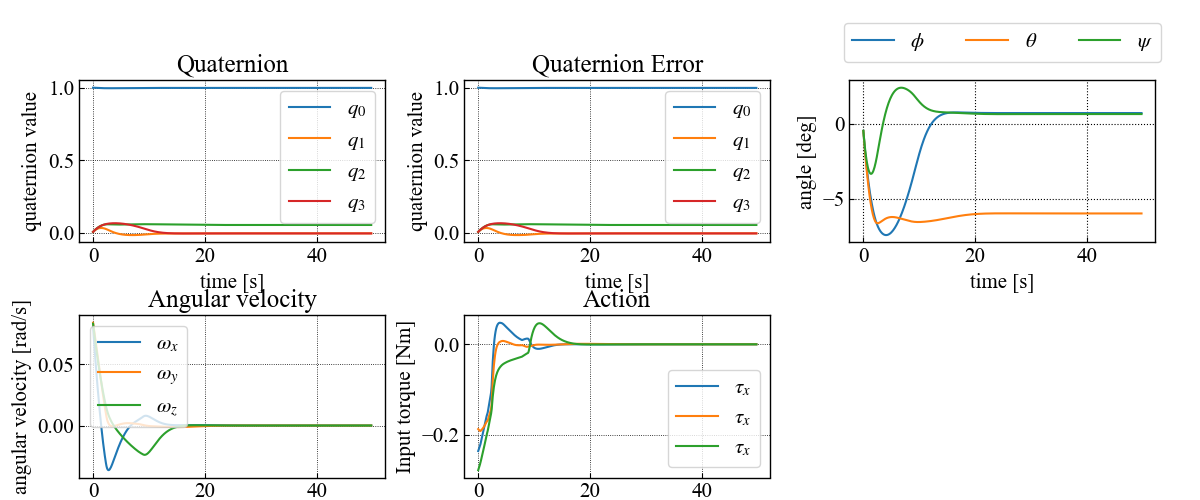
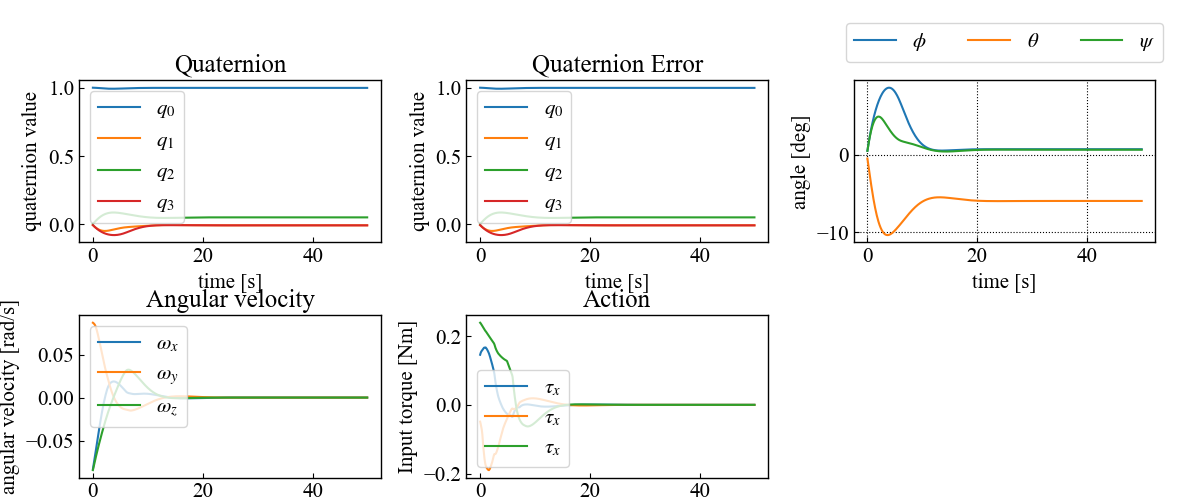
UPDATE: change reward

diff --git a/train.py b/train.py
@@ -21,7 +21,7 @@ def train():
         "batch_size": 128,
         "critic_lr": 1e-3,
         "actor_lr": 1e-4,
-        "max_episodes": 10000,
+        "max_episodes": 4000,
         "max_steps": 300,
         "gamma": 0.99,
         "tau" : 1e-3,
@@ -87,12 +87,13 @@ def evaluate():
     q = np.empty((0,4))
     w = np.empty((0,3))
     actions = np.empty((0,3))
+    r_hist = np.empty((0,3))    
 
     dt = 0.1
     simutime = 50
-    simulation_iterations = int(simutime/dt) -1 # dt is 0.01
+    max_steps = int(simutime/dt) # dt is 0.1
 
-    for i in range(1, simulation_iterations):
+    for i in range(max_steps):
         action = agent.get_action(state)
         # action = np.squeeze(action)
         next_error_state, reward, done, next_state, _ = env.step(action)
@@ -102,6 +103,7 @@ def evaluate():
         w=np.append(w,next_error_state[8:11].reshape(1,-1),axis=0)
         r += reward
         actions = np.append(actions, action.reshape(1,-1),axis=0)
+        r_hist = np.append(r_hist, np.array([env.r1,env.r2,env.r3]).reshape(1,-1),axis=0)
 
         state = next_error_state
 
@@ -134,10 +136,10 @@ def evaluate():
     plt.figure(figsize=(12,5),dpi=100)
     # plt.figure(figsize=(5.0,3.5),dpi=100)
     plt.subplot(231)
-    plt.plot(np.arange(simulation_iterations-1)*dt, q[:,0],label =r"$q_{0}$")
-    plt.plot(np.arange(simulation_iterations-1)*dt, q[:,1],label =r"$q_{1}$")
-    plt.plot(np.arange(simulation_iterations-1)*dt, q[:,2],label =r"$q_{2}$")
-    plt.plot(np.arange(simulation_iterations-1)*dt, q[:,3],label =r"$q_{3}$")
+    plt.plot(np.arange(max_steps)*dt, q[:,0],label =r"$q_{0}$")
+    plt.plot(np.arange(max_steps)*dt, q[:,1],label =r"$q_{1}$")
+    plt.plot(np.arange(max_steps)*dt, q[:,2],label =r"$q_{2}$")
+    plt.plot(np.arange(max_steps)*dt, q[:,3],label =r"$q_{3}$")
     plt.title('Quaternion')
     plt.ylabel('quaternion value')
     plt.xlabel(r'time [s]')
@@ -147,10 +149,10 @@ def evaluate():
 
     # plt.figure(figsize=(5.0,3.5),dpi=100)
     plt.subplot(232)
-    plt.plot(np.arange(simulation_iterations-1)*dt, qe[:,0],label =r"$q_{0}$")
-    plt.plot(np.arange(simulation_iterations-1)*dt, qe[:,1],label =r"$q_{1}$")
-    plt.plot(np.arange(simulation_iterations-1)*dt, qe[:,2],label =r"$q_{2}$")
-    plt.plot(np.arange(simulation_iterations-1)*dt, qe[:,3],label =r"$q_{3}$")
+    plt.plot(np.arange(max_steps)*dt, qe[:,0],label =r"$q_{0}$")
+    plt.plot(np.arange(max_steps)*dt, qe[:,1],label =r"$q_{1}$")
+    plt.plot(np.arange(max_steps)*dt, qe[:,2],label =r"$q_{2}$")
+    plt.plot(np.arange(max_steps)*dt, qe[:,3],label =r"$q_{3}$")
     plt.title('Quaternion Error')
     plt.ylabel('quaternion value')
     plt.xlabel(r'time [s]')
@@ -158,13 +160,13 @@ def evaluate():
     plt.grid(color='k', linestyle='dotted', linewidth=0.6)
     # plt.savefig(curr_dir + "/results/plot_error_quaternion.png")
 
-    angle = np.array([np.rad2deg(env.dcm2euler(env.quaternion2dcm(q[i,:]))).tolist() for i in range(simulation_iterations-1)])
+    angle = np.array([np.rad2deg(env.dcm2euler(env.quaternion2dcm(q[i,:]))).tolist() for i in range(max_steps)])
     angle = angle.reshape([-1,3])
     # plt.figure(figsize=(5.0,3.5),dpi=100)
     plt.subplot(233)
-    plt.plot(np.arange(simulation_iterations-1)*dt, angle[:,0],label = r"$\phi$")
-    plt.plot(np.arange(simulation_iterations-1)*dt, angle[:,1],label = r"$\theta$")
-    plt.plot(np.arange(simulation_iterations-1)*dt, angle[:,2],label = r"$\psi$")
+    plt.plot(np.arange(max_steps)*dt, angle[:,0],label = r"$\phi$")
+    plt.plot(np.arange(max_steps)*dt, angle[:,1],label = r"$\theta$")
+    plt.plot(np.arange(max_steps)*dt, angle[:,2],label = r"$\psi$")
     # plt.title('Action')
     plt.ylabel('angle [deg]')
     plt.xlabel(r'time [s]')
@@ -176,9 +178,9 @@ def evaluate():
 
     # plt.figure(figsize=(5.0,3.5),dpi=100)
     plt.subplot(234)
-    plt.plot(np.arange(simulation_iterations-1)*dt, w[:,0],label =r"$\omega_{x}$")
-    plt.plot(np.arange(simulation_iterations-1)*dt, w[:,1],label =r"$\omega_{y}$")
-    plt.plot(np.arange(simulation_iterations-1)*dt, w[:,2],label =r"$\omega_{z}$")
+    plt.plot(np.arange(max_steps)*dt, w[:,0],label =r"$\omega_{x}$")
+    plt.plot(np.arange(max_steps)*dt, w[:,1],label =r"$\omega_{y}$")
+    plt.plot(np.arange(max_steps)*dt, w[:,2],label =r"$\omega_{z}$")
     plt.title('Angular velocity')
     plt.ylabel('angular velocity [rad/s]')
     plt.xlabel(r'time [s]')
@@ -188,9 +190,9 @@ def evaluate():
 
     # plt.figure(figsize=(5.0,3.5),dpi=100)
     plt.subplot(235)
-    plt.plot(np.arange(simulation_iterations-1)*dt, actions[:,0],label = r"$\tau_{x}$")
-    plt.plot(np.arange(simulation_iterations-1)*dt, actions[:,1],label = r"$\tau_{x}$")
-    plt.plot(np.arange(simulation_iterations-1)*dt, actions[:,2],label = r"$\tau_{x}$")
+    plt.plot(np.arange(max_steps)*dt, actions[:,0],label = r"$\tau_{x}$")
+    plt.plot(np.arange(max_steps)*dt, actions[:,1],label = r"$\tau_{x}$")
+    plt.plot(np.arange(max_steps)*dt, actions[:,2],label = r"$\tau_{x}$")
     plt.title('Action')
     plt.ylabel('Input torque [Nm]')
     plt.xlabel(r'time [s]')
@@ -198,6 +200,21 @@ def evaluate():
     plt.grid(color='k', linestyle='dotted', linewidth=0.6)
     # plt.savefig(curr_dir + "/results/plot_torque.png")
     plt.savefig(curr_dir + "/results/total_results.png")
+
+    plt.figure(figsize=(8,4),dpi=100)
+    plt.plot(np.arange(max_steps)*dt, r_hist[:,0],label = r"$q$ pnlty")
+    plt.plot(np.arange(max_steps)*dt, r_hist[:,1],label = r"$\omega$ pnlty")
+    plt.plot(np.arange(max_steps)*dt, r_hist[:,2],label = r"$\tau$ pnlty")
+    plt.plot(np.arange(max_steps)*dt, r_hist[:,0]+r_hist[:,1]+r_hist[:,2],label = r"$toal$",linestyle='dotted')
+    # plt.title('Action')
+    plt.ylabel('reward')
+    plt.xlabel(r'time [s]')
+    plt.tight_layout()
+    plt.legend()
+    # plt.ylim(-20, 20)
+    plt.grid(True, color='k', linestyle='dotted', linewidth=0.8)
+    plt.savefig(curr_dir + "/results/reward_compo.png")
+
     plt.show()
     # -------------------------結果プロット終わり--------------------------------
 def env_test():

diff --git a/environment.py b/environment.py
@@ -166,6 +166,10 @@ class SatelliteContinuousEnv(gym.Env):
         self.d_errorQuate = self.quaternion_differential(self.startOmega, self.errorQuate)
 
         #---thresholds for episode-----
+        self.q_weight = 1*2
+        self.w_weight = 1
+        self.action_weight = 0.25
+
         self.nsteps = 0  # timestep
         self.max_steps = self.simutime/self.dt
 
@@ -178,18 +182,7 @@ class SatelliteContinuousEnv(gym.Env):
         action_bound = np.array([self.max_torque, self.max_torque, self.max_torque],dtype=np.float32)
 
         # 状態量（姿勢角４・姿勢角微分４・角速度３）
-        high = np.array([
-            np.finfo(np.float32).max,
-            np.finfo(np.float32).max,
-            np.finfo(np.float32).max,
-            np.finfo(np.float32).max,
-            np.finfo(np.float32).max,
-            np.finfo(np.float32).max,
-            np.finfo(np.float32).max,
-            np.finfo(np.float32).max,
-            np.finfo(np.float32).max,
-            np.finfo(np.float32).max,
-            np.finfo(np.float32).max,],dtype=np.float32)
+        high = np.ones(11,dtype = np.float32)*np.finfo(np.float32).max
 
         self.action_space = spaces.Box(-action_bound, action_bound)
         self.observation_space = spaces.Box(-high, high)
@@ -264,8 +257,10 @@ class SatelliteContinuousEnv(gym.Env):
         # 報酬関数
         #--------REWARD---------
         if not done:
-            # reward = -0.05*action@action
-            reward = -(2*(1-qe_new[0])**2 + 4*qe_new[1:]@qe_new[1:] + 2*omega_new@omega_new + action@action) 
+            self.r1 = self.q_weight*((1-qe_new[0])**2+ qe_new[1:]@qe_new[1:])
+            self.r2 = self.w_weight*omega_new@omega_new
+            self.r3 = self.action_weight*action@action
+            reward = -(self.r1 + self.r2 + self.r3) 
             # if qe_new[0] >= self.angle_thre:
             #     reward = -0.5*action@action
             #     reward += np.array([1,-1,-1,-1])@np.power(qe,2)
@@ -278,7 +273,10 @@ class SatelliteContinuousEnv(gym.Env):
         elif self.steps_beyond_done is None:
             # epsiode just ended
             self.steps_beyond_done = 0
-            reward = -(2*(1-qe_new[0])**2 + 4*qe_new[1:]@qe_new[1:] + 2*omega_new@omega_new + action@action) 
+            self.r1 = self.q_weight*((1-qe_new[0])**2+ qe_new[1:]@qe_new[1:])
+            self.r2 = self.w_weight*omega_new@omega_new
+            self.r3 = self.action_weight*action@action
+            reward = -(self.r1 + self.r2 + self.r3) 
 
             # if qe_new[0] >= self.angle_thre:
             #     reward = np.array([-1,-1,-1,1])@np.power(qe,2)

diff --git a/utils.py b/utils.py
@@ -16,14 +16,10 @@ def mini_batch_train(env, agent, max_episodes, max_steps, batch_size):
     episode_rewards = []
     counter = 0
     try:
-        # with tqdm(range(max_episodes),leave=False) as pbar:
-        #     for episode, ch in enumerate(pbar):
-        #         pbar.set_description("[Train] Episode %d" % episode)
         for episode in range(max_episodes):
             state = env.reset()
             episode_reward = 0    
             for step in range(max_steps):
-                # pbar.set_postfix(OrderedDict(goal= env.goalEuler, steps = step))#OrderedDict(loss=1-episode/5, acc=episode/10))
                 action = agent.get_action(state, (episode + 1) * (step + 1))
                 next_error_state, reward, done, next_state, _ = env.step(action)
                 agent.replay_buffer.push(state, action, reward, next_error_state, done)
@@ -43,9 +39,6 @@ def mini_batch_train(env, agent, max_episodes, max_steps, batch_size):
                     break
 
                 state = next_error_state
-                # Early stopping, if cumulative rewards of 10 consecutive games were >-55
-                # if counter == 10:
-                    # break
     except KeyboardInterrupt:
         print('Training stopped manually!!!')
         pass
